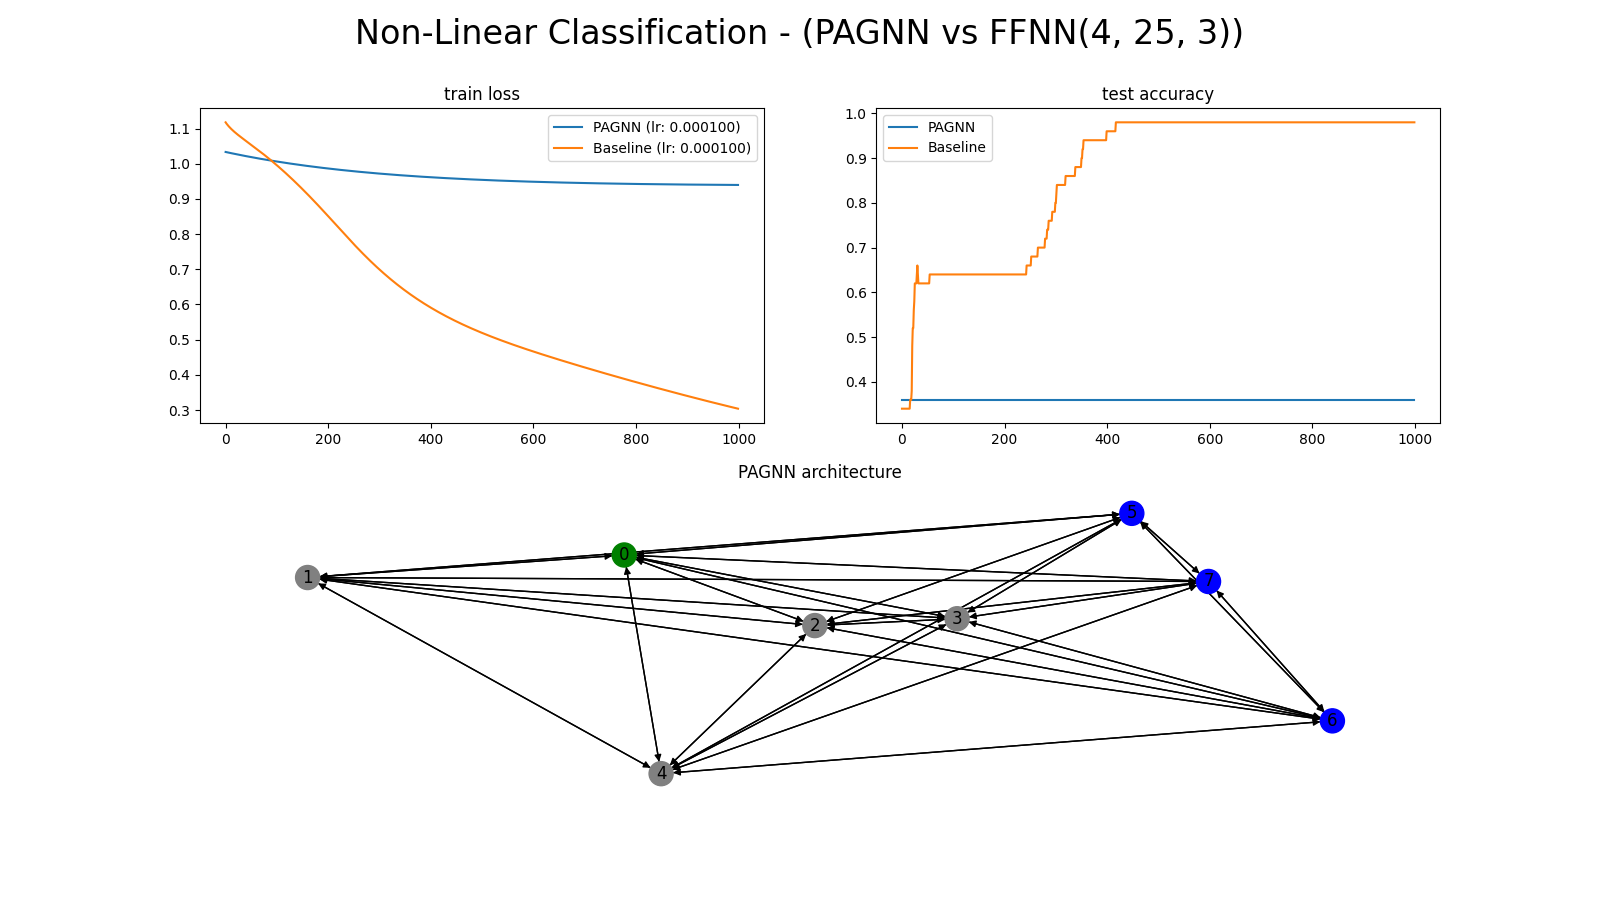
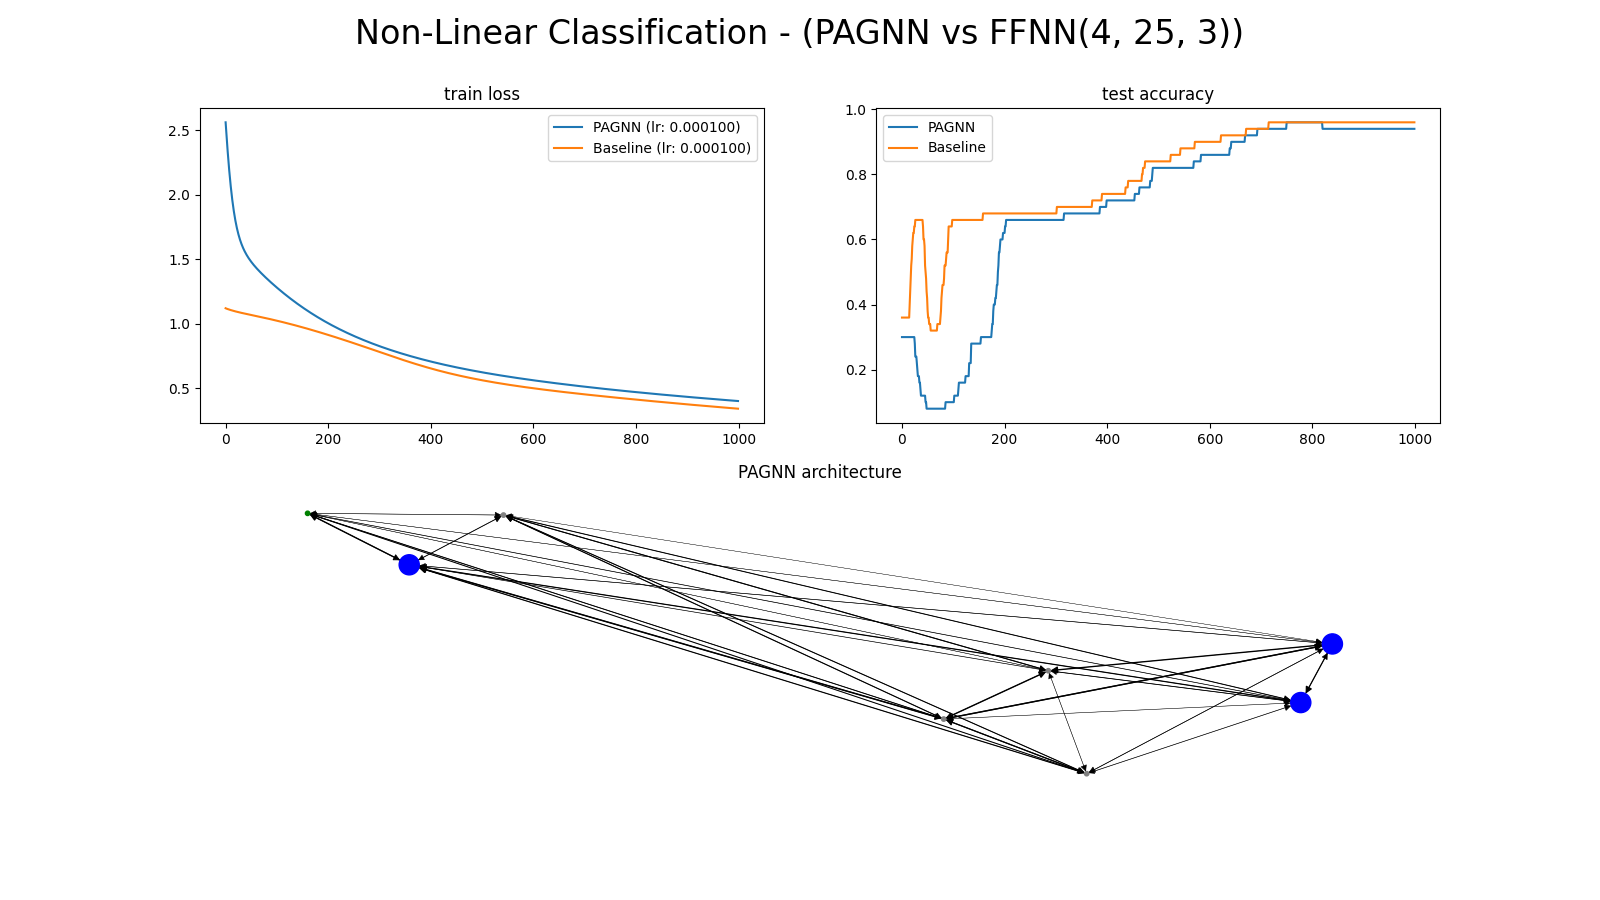
fixed sequence input to be differentiable

diff --git a/comparisons/sequences/seq_non_linear_classification.py b/comparisons/sequences/seq_non_linear_classification.py
@@ -106,7 +106,7 @@ if __name__ == '__main__':
 
                     x = x.float()
 
-                    y = pagnn(x, num_steps=num_steps, use_sequence=use_sequence, energy_scalar=energy_scalar)
+                    y = pagnn(x.unsqueeze(-1), num_steps=num_steps, use_sequence=use_sequence, energy_scalar=energy_scalar)
                     baseline_y = linear_model(x)
 
                     loss = F.cross_entropy(y, t)
@@ -144,7 +144,7 @@ if __name__ == '__main__':
                 for x, t in test_dl:
                     x = x.float()
 
-                    y = pagnn(x, num_steps=num_steps, use_sequence=use_sequence, energy_scalar=energy_scalar)
+                    y = pagnn(x.unsqueeze(-1), num_steps=num_steps, use_sequence=use_sequence, energy_scalar=energy_scalar)
                     baseline_y = linear_model(x)
 
                     pred = torch.argmax(y, axis=1)
@@ -183,8 +183,7 @@ if __name__ == '__main__':
     plt.title('test accuracy')
 
     plt.subplot(212)
-    G, color_map = pagnn.get_networkx_graph(return_color_map=True)
-    nx.draw(G, with_labels=True, node_color=color_map)
+    pagnn.draw_networkx_graph(mode='scaled_weights')
     plt.title('PAGNN architecture')
 
     plt.savefig('figures/seq_non_linear_classification.png', transparent=True)
